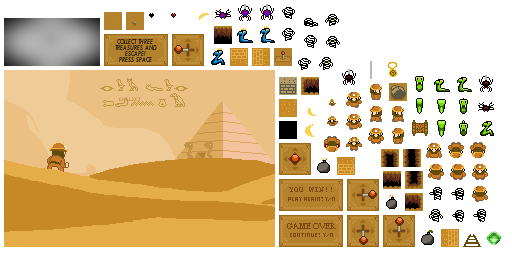
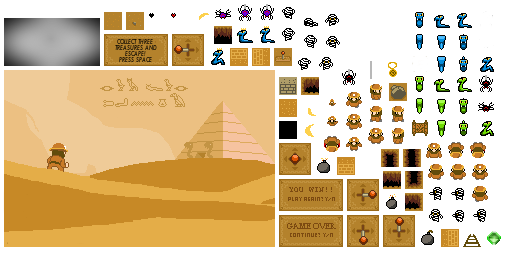
blue snake

Changed region(s): [[0.8125, 0.0312, 0.9375, 0.1875], [0.8438, 0.2188, 0.9688, 0.2812], [0.25, 0.375, 0.2812, 0.4062]]

diff --git a/roomforchange/src/com/sturdyhelmetgames/roomforchange/entity/KingSnake.java b/roomforchange/src/com/sturdyhelmetgames/roomforchange/entity/KingSnake.java
@@ -1,0 +1,82 @@
+/*    Copyright 2013 Antti Kolehmainen
+
+   Licensed under the Apache License, Version 2.0 (the "License");
+   you may not use this file except in compliance with the License.
+   You may obtain a copy of the License at
+
+       http://www.apache.org/licenses/LICENSE-2.0
+
+   Unless required by applicable law or agreed to in writing, software
+   distributed under the License is distributed on an "AS IS" BASIS,
+   WITHOUT WARRANTIES OR CONDITIONS OF ANY KIND, either express or implied.
+   See the License for the specific language governing permissions and
+   limitations under the License. */
+package com.sturdyhelmetgames.roomforchange.entity;
+
+import com.badlogic.gdx.graphics.g2d.Animation;
+import com.badlogic.gdx.graphics.g2d.SpriteBatch;
+import com.badlogic.gdx.math.MathUtils;
+import com.sturdyhelmetgames.roomforchange.assets.Assets;
+import com.sturdyhelmetgames.roomforchange.level.Level;
+
+public class KingSnake extends Enemy {
+
+	public int counter_fps = 0;
+
+	
+	public KingSnake(float x, float y, Level level) {
+		super(x, y, 1f, 1f, level);
+		health = 3;
+	}
+
+	@Override
+	public float getMaxVelocity() {
+		return 0.05f;
+	}
+
+	@Override
+	public void render(float delta, SpriteBatch batch) {
+		if (blinkTick < BLINK_TICK_MAX) {
+			super.render(delta, batch);
+			Animation animation = null;
+
+			if (direction == Direction.UP) {
+				animation = Assets.kingSnakeWalkBack;
+			} else if (direction == Direction.DOWN) {
+				animation = Assets.kingSnakeWalkFront;
+			} else if (direction == Direction.RIGHT) {
+				animation = Assets.kingSnakeWalkRight;
+			} else if (direction == Direction.LEFT) {
+				animation = Assets.kingSnakeWalkLeft;
+			}
+
+			batch.draw(animation.getKeyFrame(stateTime, true), bounds.x - 0.1f,
+					bounds.y - 0.1f, width, height);
+			
+		}
+	}
+
+	@Override
+	public void update(float fixedStep) {
+		super.update(fixedStep);
+
+		if (!isDying() && !isDead() && !isFalling() && isNotWalking()) {
+			direction = direction.turnRight();
+		}
+		if (!isDying() && !isDead() && !isFalling()) {
+			moveWithAccel(direction);
+		}
+	}
+
+	@Override
+	public void hitWallHook() {
+		direction = MathUtils.randomBoolean() ? direction.turnLeft()
+				: direction.turnRight();
+	}
+
+	@Override
+	public float getInertia() {
+		return 20f;
+	}
+
+}

diff --git a/roomforchange/src/com/sturdyhelmetgames/roomforchange/assets/Assets.java b/roomforchange/src/com/sturdyhelmetgames/roomforchange/assets/Assets.java
@@ -96,6 +96,11 @@ public class Assets {
 	public static Animation snakeWalkRight;
 	public static Animation snakeWalkLeft;
 
+	public static Animation kingSnakeWalkFront;
+	public static Animation kingSnakeWalkBack;
+	public static Animation kingSnakeWalkRight;
+	public static Animation kingSnakeWalkLeft;
+	
 	public static Animation playerWalkFront;
 	public static Animation playerWalkBack;
 	public static Animation playerWalkRight;
@@ -235,6 +240,20 @@ public class Assets {
 		snakeWalkLeft = new Animation(0.1f, snakeLeftRegions);
 		snakeWalkRight = new Animation(0.1f,
 				flipRegionsHorizontally(snakeLeftRegions));
+		
+		kingSnakeWalkFront = new Animation(0.1f, new TextureRegion[] {
+				getGameObject("king-snake-front-1"), getGameObject("king-snake-front-2"),
+				getGameObject("king-snake-front-3") });
+		kingSnakeWalkBack = new Animation(0.1f, new TextureRegion[] {
+				getGameObject("king-snake-back-1"), getGameObject("king-snake-back-2"),
+				getGameObject("king-snake-back-3") });
+
+		final TextureRegion[] kingSnakeLeftRegions = new TextureRegion[] {
+				getGameObject("king-snake-left-1"), getGameObject("king-snake-left-2"),
+				getGameObject("king-snake-left-3") };
+		kingSnakeWalkLeft = new Animation(0.1f, kingSnakeLeftRegions);
+		kingSnakeWalkRight = new Animation(0.1f,
+				flipRegionsHorizontally(kingSnakeLeftRegions));
 
 		mummyWalkBack = new Animation(0.2f, new TextureRegion[] {
 				getGameObject("mummy-back-1"), getGameObject("mummy-back-2"),

diff --git a/roomforchange/src/com/sturdyhelmetgames/roomforchange/level/Level.java b/roomforchange/src/com/sturdyhelmetgames/roomforchange/level/Level.java
@@ -24,6 +24,7 @@ import com.sturdyhelmetgames.roomforchange.assets.Assets;
 import com.sturdyhelmetgames.roomforchange.entity.Entity;
 import com.sturdyhelmetgames.roomforchange.entity.Exit;
 import com.sturdyhelmetgames.roomforchange.entity.Gem;
+import com.sturdyhelmetgames.roomforchange.entity.KingSnake;
 import com.sturdyhelmetgames.roomforchange.entity.KingSpider;
 import com.sturdyhelmetgames.roomforchange.entity.Mummy;
 import com.sturdyhelmetgames.roomforchange.entity.Player;
@@ -463,7 +464,7 @@ public class Level {
 				if(entityType == Spider.class || entityType == KingSpider.class)
 					entities.add(new KingSpider(randomX, randomY, this));
 				else
-					entities.add(new Snake(randomX, randomY, this));
+					entities.add(new KingSnake(randomX, randomY, this));
 			} 
 			
 			//enemies escape
@@ -474,7 +475,7 @@ public class Level {
 					entities.add(new KingSpider(randomX, randomY, this));
 				else {
 					if(Math.random() < 0.25)
-						entities.add(new Snake(randomX, randomY, this));
+						entities.add(new KingSnake(randomX, randomY, this));
 					else
 						entities.add(new Mummy(randomX, randomY, this));					
 				}

diff --git a/roomforchange/src/com/sturdyhelmetgames/roomforchange/level/EntityPool.java b/roomforchange/src/com/sturdyhelmetgames/roomforchange/level/EntityPool.java
@@ -14,6 +14,7 @@
 package com.sturdyhelmetgames.roomforchange.level;
 
 import com.badlogic.gdx.utils.Array;
+import com.sturdyhelmetgames.roomforchange.entity.KingSnake;
 import com.sturdyhelmetgames.roomforchange.entity.Mummy;
 import com.sturdyhelmetgames.roomforchange.entity.Snake;
 
@@ -21,5 +22,6 @@ public class EntityPool {
 
 	private static final Array<Mummy> mummyPool = new Array<Mummy>();
 	private static final Array<Snake> snakePool = new Array<Snake>();
+	private static final Array<KingSnake> kingSnakePool = new Array<KingSnake>();
 
 }

diff --git a/roomforchange/src/com/sturdyhelmetgames/roomforchange/entity/Player.java b/roomforchange/src/com/sturdyhelmetgames/roomforchange/entity/Player.java
@@ -224,7 +224,8 @@ public class Player extends Entity {
 	}
 
 	public void gainHealth() {
-		health++;
+		if(health + 1 < maxHealth)
+			health++;
 	}
 
 	public boolean isInvulnerable() {
